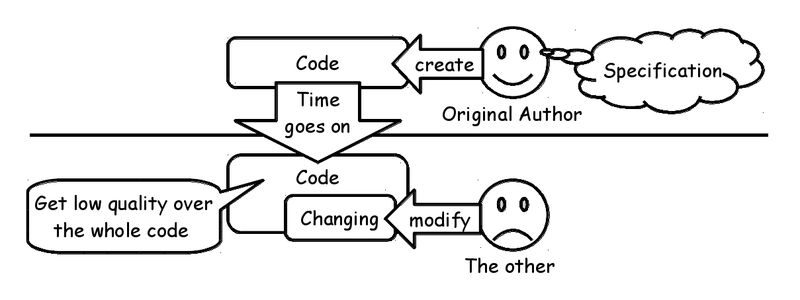
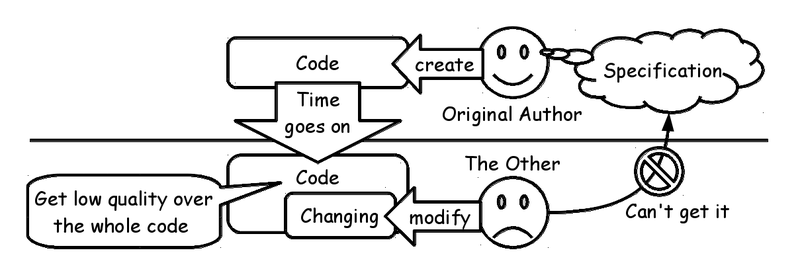
Finish it without backgrounds

Changed region(s): [[0.0312, 0.0873, 0.9688, 0.9309]]

diff --git a/presentations/20160130_1_start_fpiot_intro/20160130_1_start_fpiot_intro.md b/presentations/20160130_1_start_fpiot_intro/20160130_1_start_fpiot_intro.md
@@ -23,18 +23,18 @@ C language can easily design the IoT devices?
 # What's Functional IoT?
 
 * http://fpiot.metasepi.org/
-* is a wrestling mat that strong typed languages fight on, to become the champion of system programming language.
-* tries to write demo code running on MCU using the languages.
+* is a wrestling mat that strongly typed languages fight on, to become the champion of system programming language.
+* tries to write demo code running on tiny MCU using the languages.
 * summarizes knowledge of the languages as catalog.
 
 # Why do Functional IoT?
 
 * Today, we have many methodologies for system design.
-* They are static typing, theorem proving, formal method, design by contract, model checking, static verification, SMT solver, etc.
+* For example, they are static typing, theorem proving, formal method, design by contract, model checking, static verification, SMT solver, etc.
 * However, nobody have the exhaustive catalog of them.
 * Let's make the catalog!
 
-# Why need such languages?
+# Why need such methodologies?
 
 Many people choose C/C++ languages to design IoT device.
 However the languages lack following:
@@ -59,13 +59,13 @@ Some methodologies can avoid these errors.
 # Specification to be verified
 
 * Many people maintain specification as natural language.
-* Some methodologies can formally maintain specification and verify it in computer.
+* Some methodologies can formally maintain specification which is verified in computer.
 
 ![inline](draw/spec_verified.png)
 
 # Keeping good quality
 
-* Original author can keep quality of the code, however the other is hard to do it without verify-able specification. Sometimes, the original author will become "the other" in future.
+* Original author can keep quality of the code, however the other is hard to do it by lack of verify-able specification. Sometimes, the original author will become "the other" in future.
 
 ![inline](draw/keeping_quality.png)
 
@@ -88,9 +88,13 @@ C language can't use following feature:
 
 # How to do Functional IoT?
 
-xxx
+* Survey existing the methodologies as you like.
+* Write some demo code running on tiny MCU.
+* Monthly have meetup at Tokyo, Japan.
+* Share your knowledge and demo at the meetup.
+* Update our exhaustive catalog of the methodologies.
 
-# Let's join and share at the meetup!
+# Let's join the Functional IoT meetup!
 
 https://fpiot.doorkeeper.jp/
 
